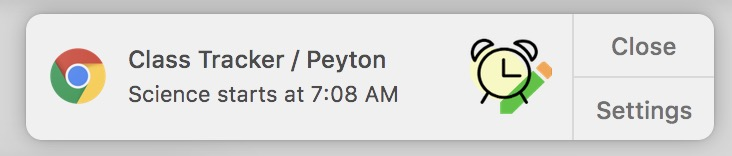
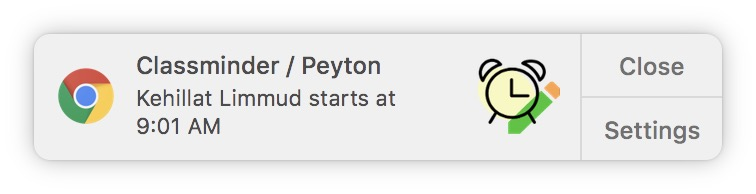
Updated styles for Options page along with screen shots

diff --git a/src/styles/styles.css b/src/styles/styles.css
@@ -4,10 +4,10 @@
     --red: #e53935;
     --red-light: #ff6f60;
     --yellow: #fdd835;
-    --yellow-light: #ffff6b;
+    --yellow-light: #fafda2;
     --blue: #1e88e5;
     --blue-light: #6ab7ff;
-    --green: #388e3c;
+    --green: #21bf21;
     --green-light: #6abf69;
     --white: #fff;
     --black: #000;
@@ -15,7 +15,7 @@
     --space-sm: 8px;
     --space-med: 15px;
     --space-lg: 20px;
-    --color-primary: #02e6ee;
+    --color-primary: #21bf21;
     --color-primary-light: #dffbfb;
     --color-complimentary: #ecec0e;
     --color-complimentary-light: #f9f9c0;

diff --git a/src/background.js b/src/background.js
@@ -43,7 +43,7 @@ chrome.alarms.onAlarm.addListener((alarm) => {
  * @see {@link https://developer.chrome.com/extensions/notifications}
  */
 function notify (name, course) {
-  const title = `Class Tracker / ${name}`
+  const title = `Classminder / ${name}`
   let displayTime = parseInt(course.displayTime)
   let [ hour, min ] = course.startTime.split(':').map(i => parseInt(i))
   let amPm

diff --git a/src/styles/components.css b/src/styles/components.css
@@ -27,11 +27,15 @@ label[for="startTime"] {
 fieldset {
   border: solid 1px var(--color-complimentary);
   border-radius: 3px;
+  background: var(--yellow-light);
 }
 
 legend {
-  padding: 0 var(--space-med);
+  font-style: oblique;
+  padding: 4px 6px;
   font-size: 14px;
+  background-color: var(--white);
+  border-radius: 5px;
 }
 
 select {
